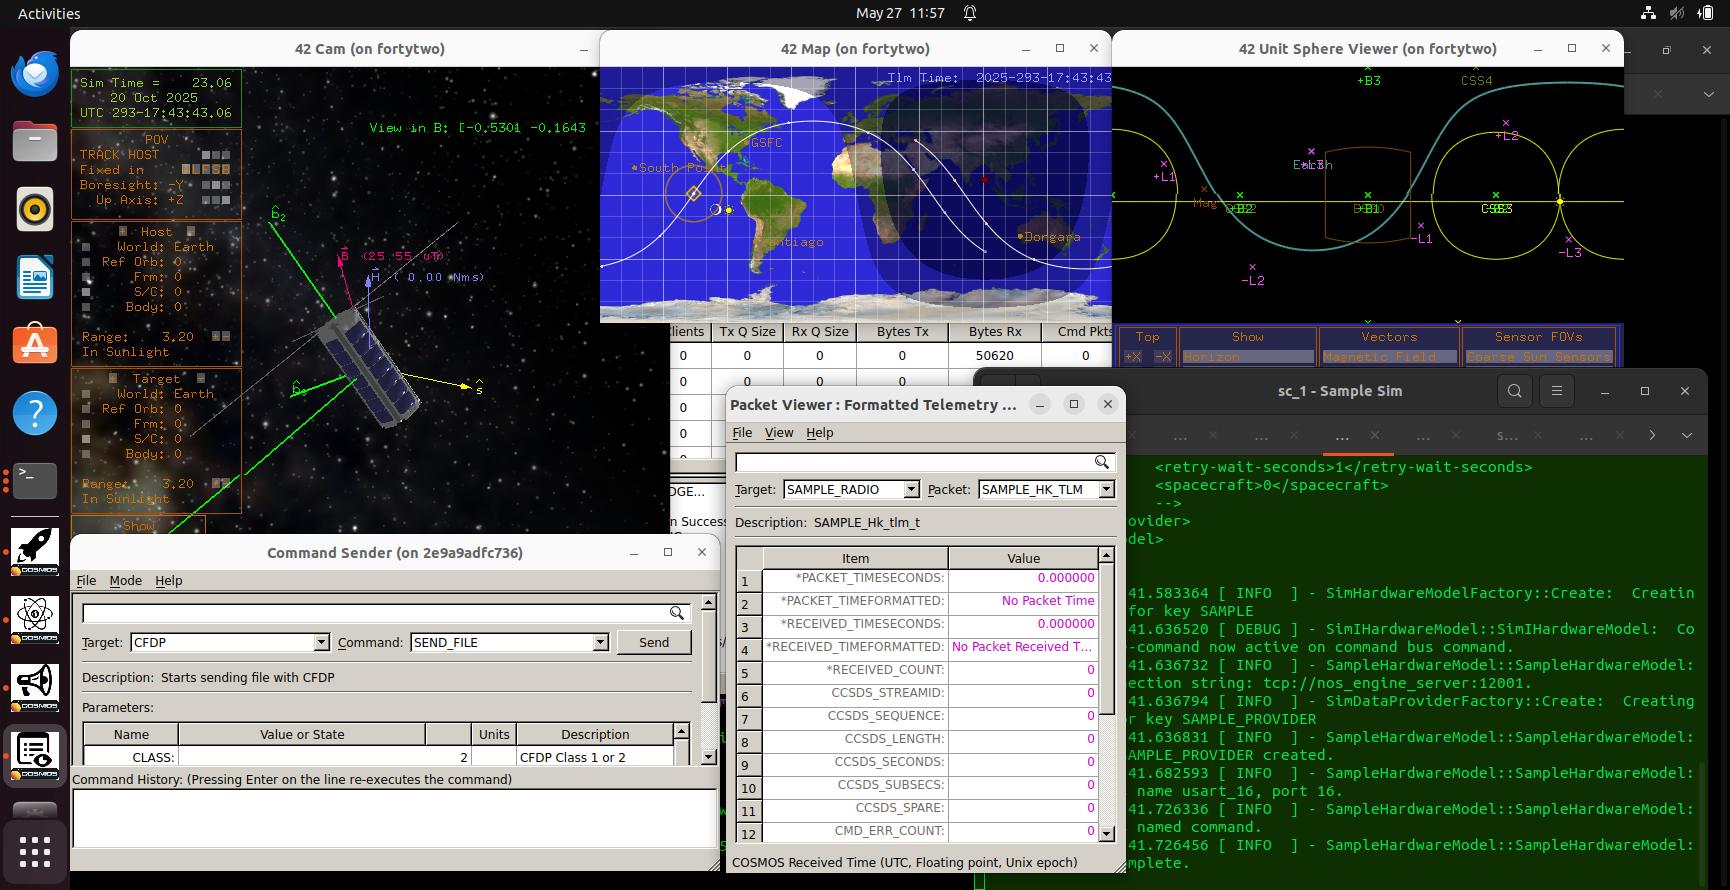
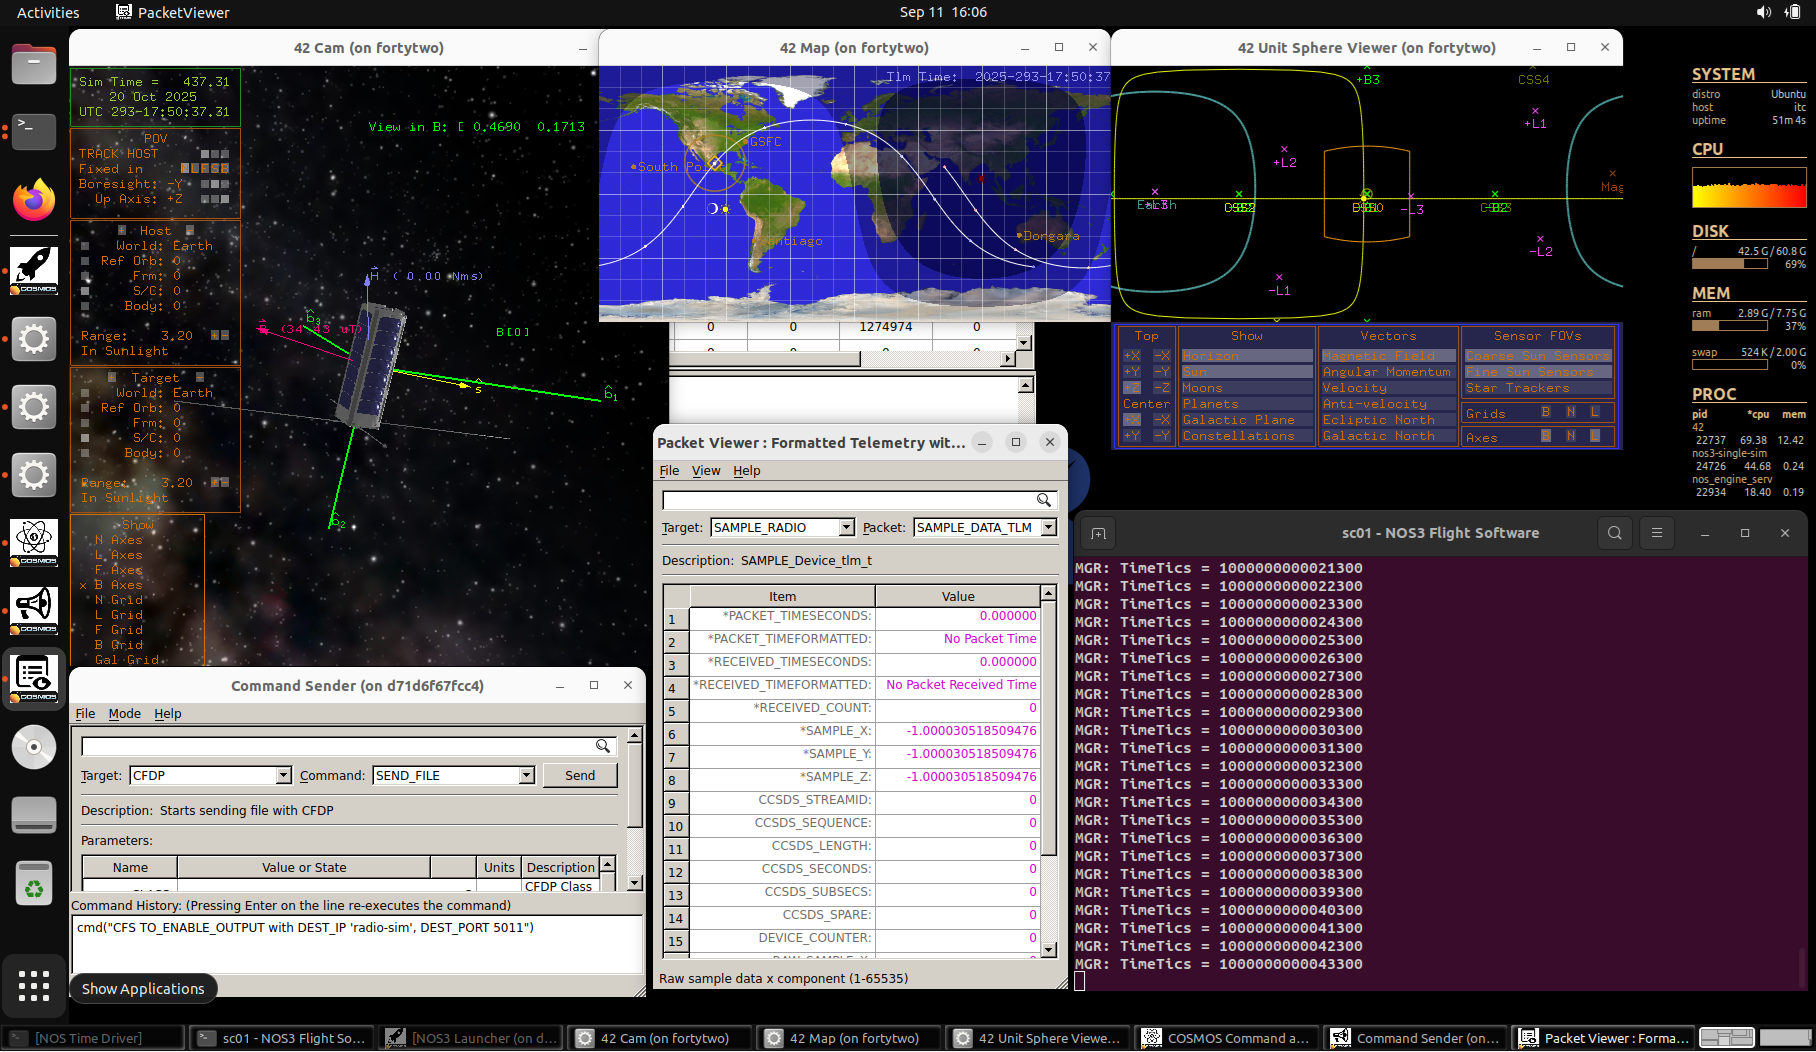
https://github.com/nasa/nos3/issues/786 - Updates to the Demonstration scenario.

diff --git a/docs/wiki/Scenario_Demo.md b/docs/wiki/Scenario_Demo.md
@@ -4,7 +4,7 @@ This scenario was developed to provide an overview of the NASA Operational Simul
 It demonstrates the flight software (FSW), ground software (GSW), and simulation interactions within NOS3.
 It also serves as a template for additional scenarios to be developed and added to the environment to cover various use cases.
 
-This scenario was last updated on 05/26/2025 and leveraged the `dev` branch at the time [a3e7c100].
+This scenario was last updated on 05/26/2025 and leveraged the `dev` branch at the time [422f66ec].
 
 ## Learning Goals
 
@@ -49,13 +49,17 @@ By default, we go to sun-safe mode.  We should be able to confirm that in multip
 * In the FSW console:
   * Lots of logs get captured here as events occur during startup, so you may need to scroll back in that terminal to view the message.
   * Console prints should calm down after initialization as the spacecraft reaches a steady state.
+  * Mode 2 is sun-safe mode:
+  ![Scenario Demo - FSW SunSafe](./_static/scenario_demo/scenario_demo_fsw_sunsafe.png)
 * In GSW telemetry:
   * The COSMOS Packet Viewer lets you select the desired Target and Packet and see what has been reported.
   * If the text is displayed as pink, that means that either no data has been received or that the data has gone stale.
+  * Telemetry packet `GENERIC_ADCS`, telemetry point `MODE` indicates the mode the spacecraft is in:
+  ![Scenario Demo - FSW SunSafe](./_static/scenario_demo/scenario_demo_telemetry_sunsafe.png)
 * Visually in 42:
   * Note you can click and drag within the 42 Cam window to rotate around the spacecraft.
-
-![Scenario Demo - SunSafe](./_static/scenario_demo/scenario_demo_sunsafe.png)
+  * Sunsafe aligns the spacecraft +x (b1) axis with the sun vector (s) as can be seen in the screenshot.
+  ![Scenario Demo - SunSafe](./_static/scenario_demo/scenario_demo_sunsafe.png)
 
 ---
 ### Commanding the Spacecraft
@@ -63,7 +67,7 @@ By default, we go to sun-safe mode.  We should be able to confirm that in multip
 Let's confirm we can command the spacecraft:
 * The CFS CFE_ES_NOOP command has a nice print to the FSW console which will allow us to easily confirm this.
   * You may need to return the FSW console back to the bottom of the window to see it.
-* Additionally, we can confirm (via inspection) that the command counter belonging to that specific application increments in telemetry:
+* Additionally, we can confirm (via inspection) that the command counter belonging to that specific application increments in telemetry (telemetry packet `CFS`, telemetry point `CMDCOUNTER`):
 
 ![Scenario Demo - COSMOS Command](./_static/scenario_demo/scenario_demo_cosmos_command.png)
 
@@ -73,22 +77,20 @@ Let's confirm we can command the spacecraft:
 
 Let's command the radio to transmit:
 * It is common that the spacecraft radio is always listening for commands, but doesn't transmit unless enabled.
-* In the Command Sender, let's change to use the CFS TO_ENABLE_OUTPUT command:
-  * The default arguments of DEST_IP 'radio_sim' and DEST_PORT '5011' work for this.
-
+* In the Command Sender, let's change to use the `CFS` `TO_ENABLE_OUTPUT` command:
+  * The default arguments of `DEST_IP` 'radio_sim' and `DEST_PORT` '5011' work for this.
 ![Scenario Demo - TO Enable Output](./_static/scenario_demo/scenario_demo_to_enable.png)
 
 * Note that while we are getting `Bytes Rx` in the COSMOS Command and Telemetry Server, we don't have `Bytes Tx`.
 * This is because that standard CFS target utilizes the debug interface.
 
 Let's send another NOOP, but use the CFS_RADIO target:
-
-[Scenario Demo - Radio Command](./_static/scenario_demo/scenario_demo_radio_command.png)
+![Scenario Demo - Radio Command](./_static/scenario_demo/scenario_demo_radio_command.png)
 
 * Things look as expected now in the COSMOS Command and Telemetry Server.
 
 Let's confirm that we're actually getting radio telemetry which matches the debug interface:
-* Open another Packet Viewer window via the COSMOS NOS3 Launcher (third row, first column).
+* Open another Packet Viewer window via the COSMOS NOS3 Launcher (third row, first column) to packet `CFS_RADIO` and compare it's values with the values for the `CFS` (debug) packet.
 
 ![Scenario Demo - Radio Telemetry](./_static/scenario_demo/scenario_demo_radio_telemetry.png)
 
@@ -98,11 +100,11 @@ Let's confirm that we're actually getting radio telemetry which matches the debu
 Let's see if we can command the sample instrument payload:
 * This is a standard NOS3 component, meaning it has FSW, GSW, and a simulator running and talking to the 42 dynamics provider.
 * Using the drop-down carrot on the right of the terminal window, change the terminal tab to `sc_1 - Sample Sim` and resize.
-* Also, prepare the packet viewer by changing to the SAMPLE SAMPLE_HK_TLM packet, and send the SAMPLE SAMPLE_NOOP_CC via the Command Sender.
+* Also, prepare the packet viewer by changing to the `SAMPLE` `SAMPLE_HK_TLM` packet, and send the `SAMPLE` `SAMPLE_NOOP_CC` via the Command Sender.
 
 ![Scenario Demo - Sample NOOP](./_static/scenario_demo/scenario_demo_sample_noop.png)
 
-* We can confirm that the command was sent successfully in both the FSW console and by observing an increase in the CMD_COUNT, but nothing appears in the simulator:
+* We can confirm that the command was sent successfully in both the FSW console and by observing an increase in the `CMD_COUNT`, but nothing appears in the simulator:
   * This is because of the NOOP or No Operation command itself.
   * NOOPs are standard across cFS applications and simply prove that that application is alive and listening.
   * These NOOP commands do not interface with anything but the FSW application, however.
@@ -136,10 +138,10 @@ Let's send the SAMPLE_SIM_SET_STATUS command with a status value of 5.
 ### ADCS
 
 We can leave sample like that - let's play with the Attitude Determination and Control System (ADCS).
-* In short, ADCS uses various components (typically referred to as sensors and actuators) to make the vehicle change orientation.
+* In short, ADCS uses various components (typically referred to as sensors and actuators) to make the vehicle change orientation or position.
 Let's first disable the ADCS from doing anything so we can play:
 * Note that if you are in eclipse your spacecraft can't point at the sun because it doesn't know where it is (not smart enough to guess). 
-* In the Command Sender send the GENERIC_ADCS GENERIC_ADCS_SET_MODE_CC with GNC_MODE PASSIVE (0).
+* In the Command Sender send the command `GENERIC_ADCS` `GENERIC_ADCS_SET_MODE_CC` with `GNC_MODE` `PASSIVE` (0).
 
 ![Scenario Demo - ADCS Passive](./_static/scenario_demo/scenario_demo_adcs_passive.png)
 
@@ -147,7 +149,7 @@ Let's first disable the ADCS from doing anything so we can play:
   * Note that it is important to command ADCS to passive so that we can poke at the various components it leverages.
   * ADCS requests telemetry and sends new commands to these components at 1Hz so it would fight us otherwise.
 
-Let's command a reaction wheel to spin and see if it does stuff:
+Let's command a reaction wheel to spin using the `GENERIC_REACTION_WHEEL` `GENERIC_RW_SET_TORQUE_CC` command and see if it does stuff:
 
 ![Scenario Demo - RW Up](./_static/scenario_demo/scenario_demo_rw_up.png)
 
